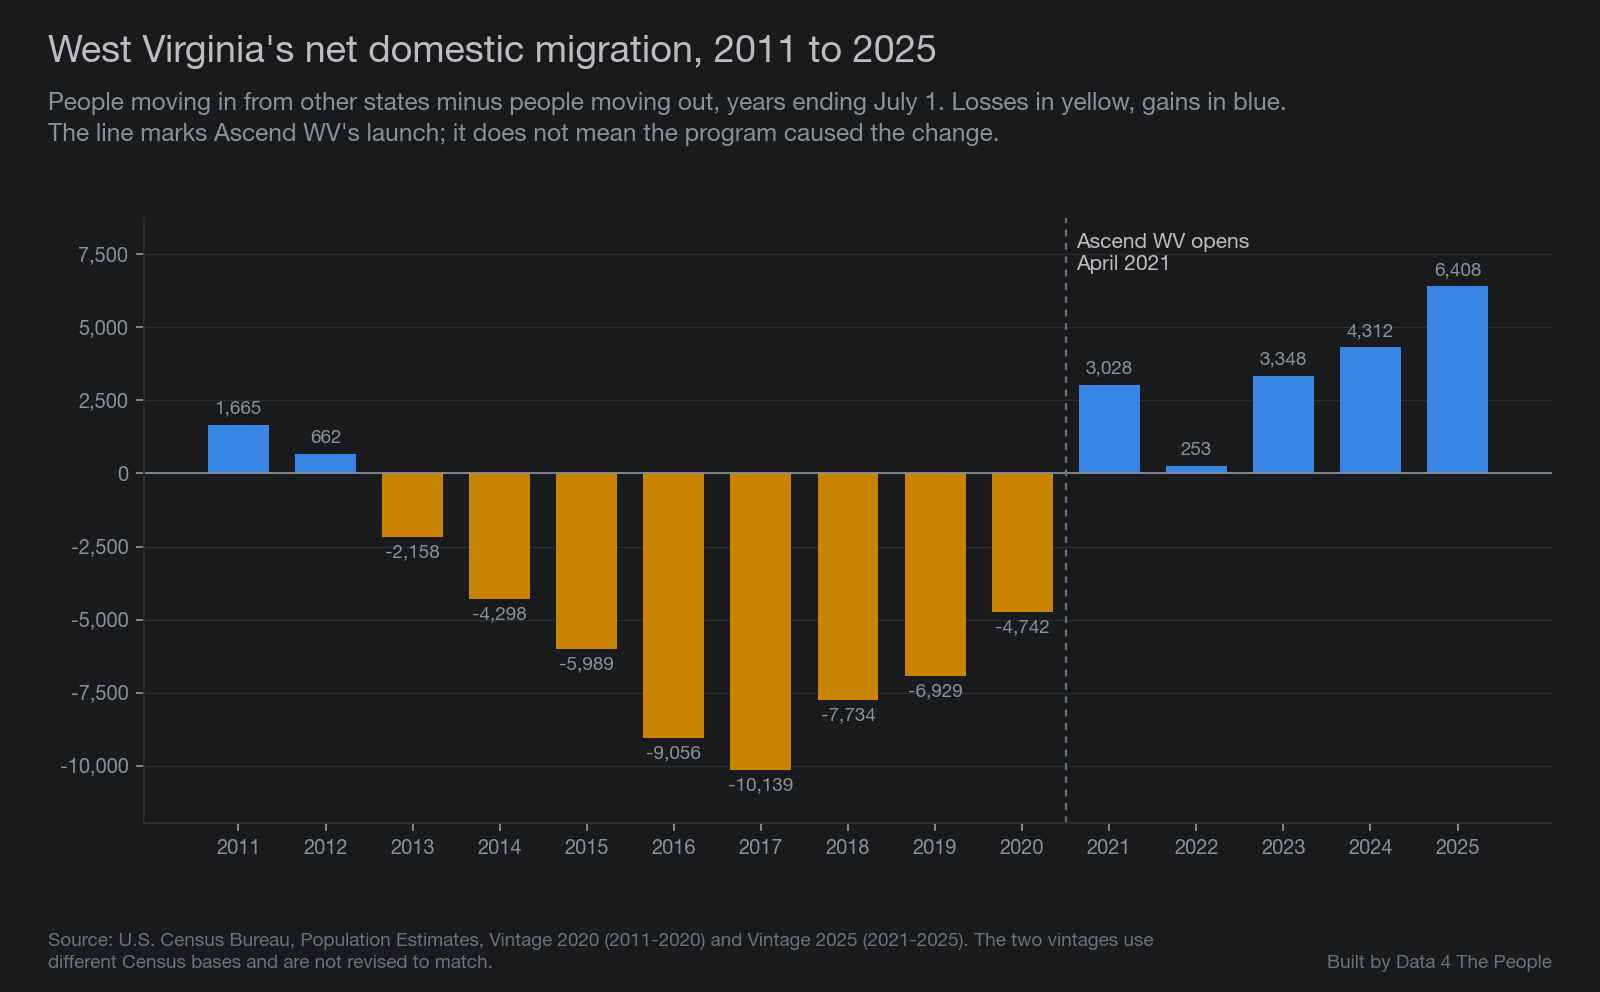
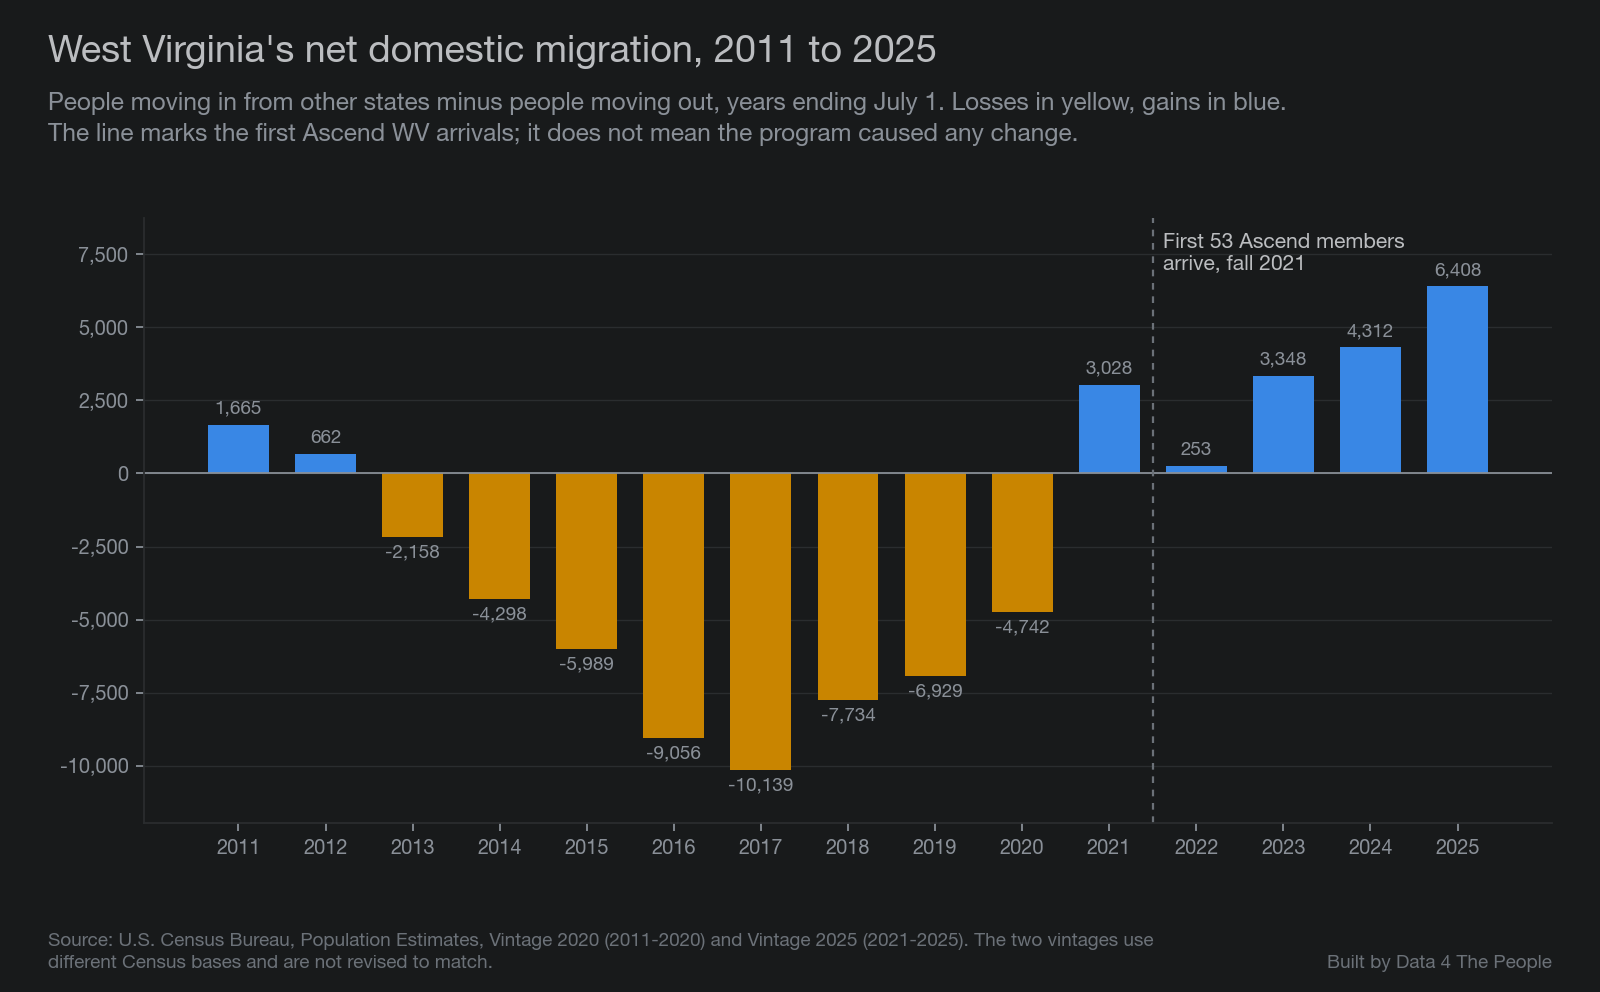
WV_Ascend_Movers: Claude tie-out (62 of 62), chart 1 marker at first arrivals

Changed region(s): [[0.125, 0.125, 0.6875, 0.1562], [0.6562, 0.2188, 0.875, 0.2812]]

diff --git a/scripts/99_tieout.py b/scripts/99_tieout.py
@@ -1,0 +1,145 @@
+"""Claude's tie-out. Recomputes every charted or headline number from the raw downloaded files with code
+separate from the build scripts (pandas here, csv modules there), compares with data/processed, and writes
+TIEOUT.md. The word checks (labels and sourced claims) are listed at the end with a status for each.
+"""
+import pandas as pd
+
+from common import PROC, RAW, ROOT
+
+rows = []
+
+
+def check(item, ours, theirs, tol=0):
+    ok = abs(float(ours) - float(theirs)) <= tol
+    rows.append((item, ours, theirs, "match" if ok else "DIFFERENT"))
+
+
+# --- Census: state rows, straight from the raw files -----------------------------------------------------
+v20 = pd.read_csv(RAW / "popest" / "co-est2020-alldata.csv", encoding="latin-1", dtype={"STATE": str, "COUNTY": str})
+v25 = pd.read_csv(RAW / "popest" / "co-est2025-alldata.csv", encoding="latin-1", dtype={"STATE": str, "COUNTY": str})
+wv20 = v20[(v20.SUMLEV == 40) & (v20.STATE == "54")].iloc[0]
+wv25 = v25[(v25.SUMLEV == 40) & (v25.STATE == "54")].iloc[0]
+raw_dom = {y: int(wv20[f"DOMESTICMIG{y}"]) for y in range(2011, 2021)}
+raw_dom.update({y: int(wv25[f"DOMESTICMIG{y}"]) for y in range(2021, 2026)})
+proc = pd.read_csv(PROC / "wv_components.csv").set_index("year_ending_july")
+for y, v in raw_dom.items():
+    check(f"WV net domestic migration, year ending {y} (chart 1)", v, proc.loc[y, "domestic_mig"])
+check("WV net domestic migration 2021-2025 total", sum(raw_dom[y] for y in range(2021, 2026)), 17349)
+check("WV net domestic migration 2015-2019 total", sum(raw_dom[y] for y in range(2015, 2020)), -39847)
+check("WV population July 1, 2025", int(wv25["POPESTIMATE2025"]), 1766147)
+
+
+# --- Census: state rates and ranks (chart 3) -------------------------------------------------------------
+def rates(df20, df25):
+    out = {}
+    s20 = df20[df20.SUMLEV == 40].set_index("STNAME")
+    s25 = df25[df25.SUMLEV == 40].set_index("STNAME")
+    for n in s25.index:
+        pre = sum(s20.loc[n, f"DOMESTICMIG{y}"] for y in range(2015, 2020)) / \
+            (sum(s20.loc[n, f"POPESTIMATE{y}"] for y in range(2015, 2020)) / 5) / 5 * 1000
+        post = sum(s25.loc[n, f"DOMESTICMIG{y}"] for y in range(2021, 2026)) / \
+            (sum(s25.loc[n, f"POPESTIMATE{y}"] for y in range(2021, 2026)) / 5) / 5 * 1000
+        out[n] = post - pre
+    return out
+
+
+ch = rates(v20, v25)
+rank = sorted(ch, key=ch.get, reverse=True)
+check("States in ranking (50 + D.C.)", len(ch), 51)
+for n, shown_rank, shown in [("Wyoming", 1, 8.89), ("Connecticut", 2, 6.82), ("West Virginia", 3, 6.34),
+                             ("Alaska", 4, 5.94), ("Ohio", 31, 1.11), ("Maryland", 38, 0.05)]:
+    check(f"{n} change per 1,000 (chart 3)", round(ch[n], 2), shown, tol=0.005)
+    check(f"{n} rank (chart 3)", rank.index(n) + 1, shown_rank)
+
+# --- Census: county groups (chart 4) ---------------------------------------------------------------------
+groups = {"Eastern Panhandle (Ascend)": ["037", "003", "065"],
+          "Other Ascend areas": ["061", "025", "083", "019", "081", "067", "039"]}
+c20 = v20[(v20.SUMLEV == 50) & (v20.STATE == "54")].set_index("COUNTY")
+c25 = v25[(v25.SUMLEV == 50) & (v25.STATE == "54")].set_index("COUNTY")
+groups["Rest of West Virginia"] = [c for c in c25.index if c not in groups["Eastern Panhandle (Ascend)"]
+                                   + groups["Other Ascend areas"]]
+check("WV counties", len(c25), 55)
+cc = pd.read_csv(PROC / "county_compare.csv").set_index("county")
+for g, cs in groups.items():
+    for label, df, ys in [("2015_2019", c20, range(2015, 2020)), ("2021_2025", c25, range(2021, 2026))]:
+        mig = sum(df.loc[c, f"DOMESTICMIG{y}"] for c in cs for y in ys)
+        pop = sum(df.loc[c, f"POPESTIMATE{y}"] for c in cs for y in ys) / 5
+        check(f"{g}, net domestic {label}", mig, cc.loc[g, f"net_dom_{label}"])
+        check(f"{g}, rate {label} (chart 4)", round(mig / pop / 5 * 1000, 2), cc.loc[g, f"rate_{label}"], tol=0.005)
+check("Eastern Panhandle 2021-2025 gain exceeds WV total", 21680 > 17349, True)
+
+# --- IRS (chart 2) ---------------------------------------------------------------------------------------
+irs = pd.read_csv(PROC / "wv_irs_flows.csv")
+for yy, d, shown in [("2223", "inflow", 36521), ("2223", "outflow", 33384), ("1415", "inflow", 23428),
+                     ("1314", "inflow", 32962)]:
+    f = pd.read_csv(RAW / "irs" / f"state{d}{yy}.csv", encoding="latin-1", dtype=str)
+    f.columns = [c.lower() for c in f.columns]
+    here = "y2_statefips" if d == "inflow" else "y1_statefips"
+    there = "y1_statefips" if d == "inflow" else "y2_statefips"
+    name = "y1_state_name" if d == "inflow" else "y2_state_name"
+    r = f[(f[here].str.zfill(2) == "54") & (f[there] == "97") & (~f[name].str.contains("Same State"))]
+    check(f"IRS {d} {yy} people (n2), from raw", int(r.n2.iloc[0]), shown)
+    p = irs[(irs.years == f"20{yy[:2]}-{yy[2:]}") & (irs.direction == d) & (irs.scope == "us")]
+    check(f"IRS {d} {yy} people, processed", int(p.individuals.iloc[0]), shown)
+
+# --- JobsOhio (headline) ---------------------------------------------------------------------------------
+jo = pd.read_csv(PROC / "jobsohio_per_job.csv").set_index("year")
+src = pd.read_csv(ROOT.parent / "JobsOhioSmallBiz" / "data" / "commitments_norm.csv")
+src["y"] = src.report_month.str[:4].astype(int)
+keep = src[(src.y.between(2021, 2025)) & (~src.program_family.isin(
+    ["Growth Fund Loan", "Revitalization Loan", "Other Loan", "Spec Development (OSIP)"]))]
+check("JobsOhio grant dollars 2021-2025", int(keep.value.fillna(0).sum()), int(jo.loc["2021-2025", "grant_dollars"]))
+check("JobsOhio committed jobs 2021-2025 (after removing 19 repeated promises)",
+      int(jo.loc["2021-2025", "jobs_committed"]), 83124)
+check("JobsOhio dollars per committed job",
+      round(int(jo.loc["2021-2025", "grant_dollars"]) / int(jo.loc["2021-2025", "jobs_committed"])), 16182)
+
+# --- Ascend reported table (chart 5) ---------------------------------------------------------------------
+asc = pd.read_csv(ROOT / "data" / "ascend_reported.csv")
+check("Ascend rows with a URL and quote", int((asc.url.notna() & asc.exact_quote.notna()).sum()), len(asc))
+for m, d, v in [("participants", "2026-02-06", 618), ("new_residents_incl_family", "2026-02-06", 1161),
+                ("participants", "2026-07-19", 704), ("retention_pct", "2026-02-06", 95.5),
+                ("completed_two_years", "2026-02-06", 116)]:
+    hit = asc[(asc.measure == m) & (asc.publish_date == d)]
+    check(f"Ascend {m} {d}", float(hit.value.iloc[0]), v)
+
+# --- Words: every label and sourced claim on the built output -------------------------------------------
+WORDS = [
+    ("Chart 1 marker 'First 53 Ascend members arrive, fall 2021'", "supported",
+     "Ascend release Sept 2, 2021: 'The 53 class members...'"),
+    ("Chart 1 note 'two vintages use different Census bases and are not revised to match'", "supported",
+     "Census methodology page and V2025 methods statement"),
+    ("Chart 2 note 'IRS warns processing changes may affect 2014-15'", "partly supported",
+     "2014-15 guide warns identity-theft processing 'may' affect comparisons; it does not name 2014-15 "
+     "WV figures"),
+    ("Chart 2 note '2022-23 starts a new series that matches about 5% more returns'", "supported",
+     "IRS 2022-23 migration guide"),
+    ("Chart 2 'Covers people on returns only (n2)'", "supported", "IRS guides: non-filers excluded"),
+    ("Chart 3 'Rank among 50 states and D.C.'", "supported", "51 state rows recomputed above"),
+    ("Chart 4 county lists for each Ascend area", "partly supported",
+     "Inferred from school systems on ascendwv.com community pages; program says '30-minute drivetime'"),
+    ("Chart 5 'Goal: 1,000 remote workers in five years (Sept. 2021)'", "supported",
+     "Ascend release Sept 2, 2021"),
+    ("Chart 5 every dot", "supported", "each row in data/ascend_reported.csv carries URL and quote"),
+    ("Retention defined as 'at least four months and stayed'", "supported, not seen directly",
+     "WVU Q4 2025 statistics p.2, as read by a research agent; Claude has not opened the PDF"),
+    ("'$580 million' from a 2023 WVU study", "not supported",
+     "Only source is NPR; no study document found"),
+    ("Bartik: 58-70% would not have moved; $36k vs $218k per job", "supported (summary only)",
+     "Upjohn two-page summary; full report not opened"),
+    ("JobsOhio figures are commitments, not verified jobs", "supported",
+     "JobsOhioSmallBiz DATASETS.md, monthly executed reports section"),
+]
+
+lines = ["# Tie-out", "", "Generated by `scripts/99_tieout.py`. Numbers recomputed from `data/raw/` with "
+         "pandas, separate from the build scripts.", "", "## Numbers", "",
+         "| Item | Recomputed | Shown / built | Result |", "|---|---|---|---|"]
+lines += [f"| {a} | {b} | {c} | {d} |" for a, b, c, d in rows]
+lines += ["", "## Words", "", "| Label or claim | Status | Source |", "|---|---|---|"]
+lines += [f"| {a} | {b} | {c} |" for a, b, c in WORDS]
+bad = [r for r in rows if r[3] != "match"]
+lines += ["", f"**{len(rows) - len(bad)} of {len(rows)} numbers match.**"]
+(ROOT / "TIEOUT.md").write_text("\n".join(lines) + "\n")
+print(f"{len(rows) - len(bad)} of {len(rows)} match")
+for r in bad:
+    print("DIFFERENT:", r)

diff --git a/scripts/06_charts.py b/scripts/06_charts.py
@@ -30,8 +30,9 @@ def chart_wv_domestic():
         ax.text(x, v + (250 if v >= 0 else -250), f"{v:,}", ha="center", va="bottom" if v >= 0 else "top",
                 fontsize=8.5, color=INK_DIM)
     ax.axhline(0, color=INK_DIM, lw=0.8)
-    ax.axvline(2020.5, color=MUTED, lw=1, ls=(0, (3, 3)))
-    ax.text(2020.62, max(vals) * 1.05 + 1500, "Ascend WV opens\nApril 2021", color=INK, fontsize=9.5, va="top")
+    ax.axvline(2021.5, color=MUTED, lw=1, ls=(0, (3, 3)))
+    ax.text(2021.62, max(vals) * 1.05 + 1500, "First 53 Ascend members\narrive, fall 2021", color=INK,
+            fontsize=9.5, va="top")
     ax.set_xticks(years)
     ax.set_xticklabels([str(y) for y in years], fontsize=9)
     ax.set_ylim(min(vals) * 1.18, max(vals) * 1.05 + 2000)
@@ -41,8 +42,8 @@ def chart_wv_domestic():
     ax.yaxis.set_major_formatter(lambda v, _: f"{int(v):,}")
     titleblock(fig, "West Virginia's net domestic migration, 2011 to 2025",
                "People moving in from other states minus people moving out, years ending July 1. "
-               "Losses in yellow, gains in blue.\nThe line marks Ascend WV's launch; it does not mean the "
-               "program caused the change.")
+               "Losses in yellow, gains in blue.\nThe line marks the first Ascend WV arrivals; it does not mean "
+               "the program caused any change.")
     credit(fig, "Source: U.S. Census Bureau, Population Estimates, Vintage 2020 (2011-2020) and Vintage 2025 "
                 "(2021-2025). The two vintages use\ndifferent Census bases and are not revised to match.")
     fig.savefig(CHARTS / "01-wv-net-domestic-migration.png")

diff --git a/TIEOUT.md b/TIEOUT.md
@@ -1,0 +1,90 @@
+# Tie-out
+
+Generated by `scripts/99_tieout.py`. Numbers recomputed from `data/raw/` with pandas, separate from the build scripts.
+
+## Numbers
+
+| Item | Recomputed | Shown / built | Result |
+|---|---|---|---|
+| WV net domestic migration, year ending 2011 (chart 1) | 1665 | 1665 | match |
+| WV net domestic migration, year ending 2012 (chart 1) | 662 | 662 | match |
+| WV net domestic migration, year ending 2013 (chart 1) | -2158 | -2158 | match |
+| WV net domestic migration, year ending 2014 (chart 1) | -4298 | -4298 | match |
+| WV net domestic migration, year ending 2015 (chart 1) | -5989 | -5989 | match |
+| WV net domestic migration, year ending 2016 (chart 1) | -9056 | -9056 | match |
+| WV net domestic migration, year ending 2017 (chart 1) | -10139 | -10139 | match |
+| WV net domestic migration, year ending 2018 (chart 1) | -7734 | -7734 | match |
+| WV net domestic migration, year ending 2019 (chart 1) | -6929 | -6929 | match |
+| WV net domestic migration, year ending 2020 (chart 1) | -4742 | -4742 | match |
+| WV net domestic migration, year ending 2021 (chart 1) | 3028 | 3028 | match |
+| WV net domestic migration, year ending 2022 (chart 1) | 253 | 253 | match |
+| WV net domestic migration, year ending 2023 (chart 1) | 3348 | 3348 | match |
+| WV net domestic migration, year ending 2024 (chart 1) | 4312 | 4312 | match |
+| WV net domestic migration, year ending 2025 (chart 1) | 6408 | 6408 | match |
+| WV net domestic migration 2021-2025 total | 17349 | 17349 | match |
+| WV net domestic migration 2015-2019 total | -39847 | -39847 | match |
+| WV population July 1, 2025 | 1766147 | 1766147 | match |
+| States in ranking (50 + D.C.) | 51 | 51 | match |
+| Wyoming change per 1,000 (chart 3) | 8.89 | 8.89 | match |
+| Wyoming rank (chart 3) | 1 | 1 | match |
+| Connecticut change per 1,000 (chart 3) | 6.82 | 6.82 | match |
+| Connecticut rank (chart 3) | 2 | 2 | match |
+| West Virginia change per 1,000 (chart 3) | 6.34 | 6.34 | match |
+| West Virginia rank (chart 3) | 3 | 3 | match |
+| Alaska change per 1,000 (chart 3) | 5.94 | 5.94 | match |
+| Alaska rank (chart 3) | 4 | 4 | match |
+| Ohio change per 1,000 (chart 3) | 1.11 | 1.11 | match |
+| Ohio rank (chart 3) | 31 | 31 | match |
+| Maryland change per 1,000 (chart 3) | 0.05 | 0.05 | match |
+| Maryland rank (chart 3) | 38 | 38 | match |
+| WV counties | 55 | 55 | match |
+| Eastern Panhandle (Ascend), net domestic 2015_2019 | 9486 | 9486 | match |
+| Eastern Panhandle (Ascend), rate 2015_2019 (chart 4) | 9.99 | 9.99 | match |
+| Eastern Panhandle (Ascend), net domestic 2021_2025 | 21680 | 21680 | match |
+| Eastern Panhandle (Ascend), rate 2021_2025 (chart 4) | 20.57 | 20.57 | match |
+| Other Ascend areas, net domestic 2015_2019 | -17616 | -17616 | match |
+| Other Ascend areas, rate 2015_2019 (chart 4) | -7.08 | -7.08 | match |
+| Other Ascend areas, net domestic 2021_2025 | -3261 | -3261 | match |
+| Other Ascend areas, rate 2021_2025 (chart 4) | -1.37 | -1.37 | match |
+| Rest of West Virginia, net domestic 2015_2019 | -31717 | -31717 | match |
+| Rest of West Virginia, rate 2015_2019 (chart 4) | -5.6 | -5.6 | match |
+| Rest of West Virginia, net domestic 2021_2025 | -1070 | -1070 | match |
+| Rest of West Virginia, rate 2021_2025 (chart 4) | -0.2 | -0.2 | match |
+| Eastern Panhandle 2021-2025 gain exceeds WV total | True | True | match |
+| IRS inflow 2223 people (n2), from raw | 36521 | 36521 | match |
+| IRS inflow 2223 people, processed | 36521 | 36521 | match |
+| IRS outflow 2223 people (n2), from raw | 33384 | 33384 | match |
+| IRS outflow 2223 people, processed | 33384 | 33384 | match |
+| IRS inflow 1415 people (n2), from raw | 23428 | 23428 | match |
+| IRS inflow 1415 people, processed | 23428 | 23428 | match |
+| IRS inflow 1314 people (n2), from raw | 32962 | 32962 | match |
+| IRS inflow 1314 people, processed | 32962 | 32962 | match |
+| JobsOhio grant dollars 2021-2025 | 1345075454 | 1345075454 | match |
+| JobsOhio committed jobs 2021-2025 (after removing 19 repeated promises) | 83124 | 83124 | match |
+| JobsOhio dollars per committed job | 16182 | 16182 | match |
+| Ascend rows with a URL and quote | 50 | 50 | match |
+| Ascend participants 2026-02-06 | 618.0 | 618 | match |
+| Ascend new_residents_incl_family 2026-02-06 | 1161.0 | 1161 | match |
+| Ascend participants 2026-07-19 | 704.0 | 704 | match |
+| Ascend retention_pct 2026-02-06 | 95.5 | 95.5 | match |
+| Ascend completed_two_years 2026-02-06 | 116.0 | 116 | match |
+
+## Words
+
+| Label or claim | Status | Source |
+|---|---|---|
+| Chart 1 marker 'First 53 Ascend members arrive, fall 2021' | supported | Ascend release Sept 2, 2021: 'The 53 class members...' |
+| Chart 1 note 'two vintages use different Census bases and are not revised to match' | supported | Census methodology page and V2025 methods statement |
+| Chart 2 note 'IRS warns processing changes may affect 2014-15' | partly supported | 2014-15 guide warns identity-theft processing 'may' affect comparisons; it does not name 2014-15 WV figures |
+| Chart 2 note '2022-23 starts a new series that matches about 5% more returns' | supported | IRS 2022-23 migration guide |
+| Chart 2 'Covers people on returns only (n2)' | supported | IRS guides: non-filers excluded |
+| Chart 3 'Rank among 50 states and D.C.' | supported | 51 state rows recomputed above |
+| Chart 4 county lists for each Ascend area | partly supported | Inferred from school systems on ascendwv.com community pages; program says '30-minute drivetime' |
+| Chart 5 'Goal: 1,000 remote workers in five years (Sept. 2021)' | supported | Ascend release Sept 2, 2021 |
+| Chart 5 every dot | supported | each row in data/ascend_reported.csv carries URL and quote |
+| Retention defined as 'at least four months and stayed' | supported, not seen directly | WVU Q4 2025 statistics p.2, as read by a research agent; Claude has not opened the PDF |
+| '$580 million' from a 2023 WVU study | not supported | Only source is NPR; no study document found |
+| Bartik: 58-70% would not have moved; $36k vs $218k per job | supported (summary only) | Upjohn two-page summary; full report not opened |
+| JobsOhio figures are commitments, not verified jobs | supported | JobsOhioSmallBiz DATASETS.md, monthly executed reports section |
+
+**62 of 62 numbers match.**
